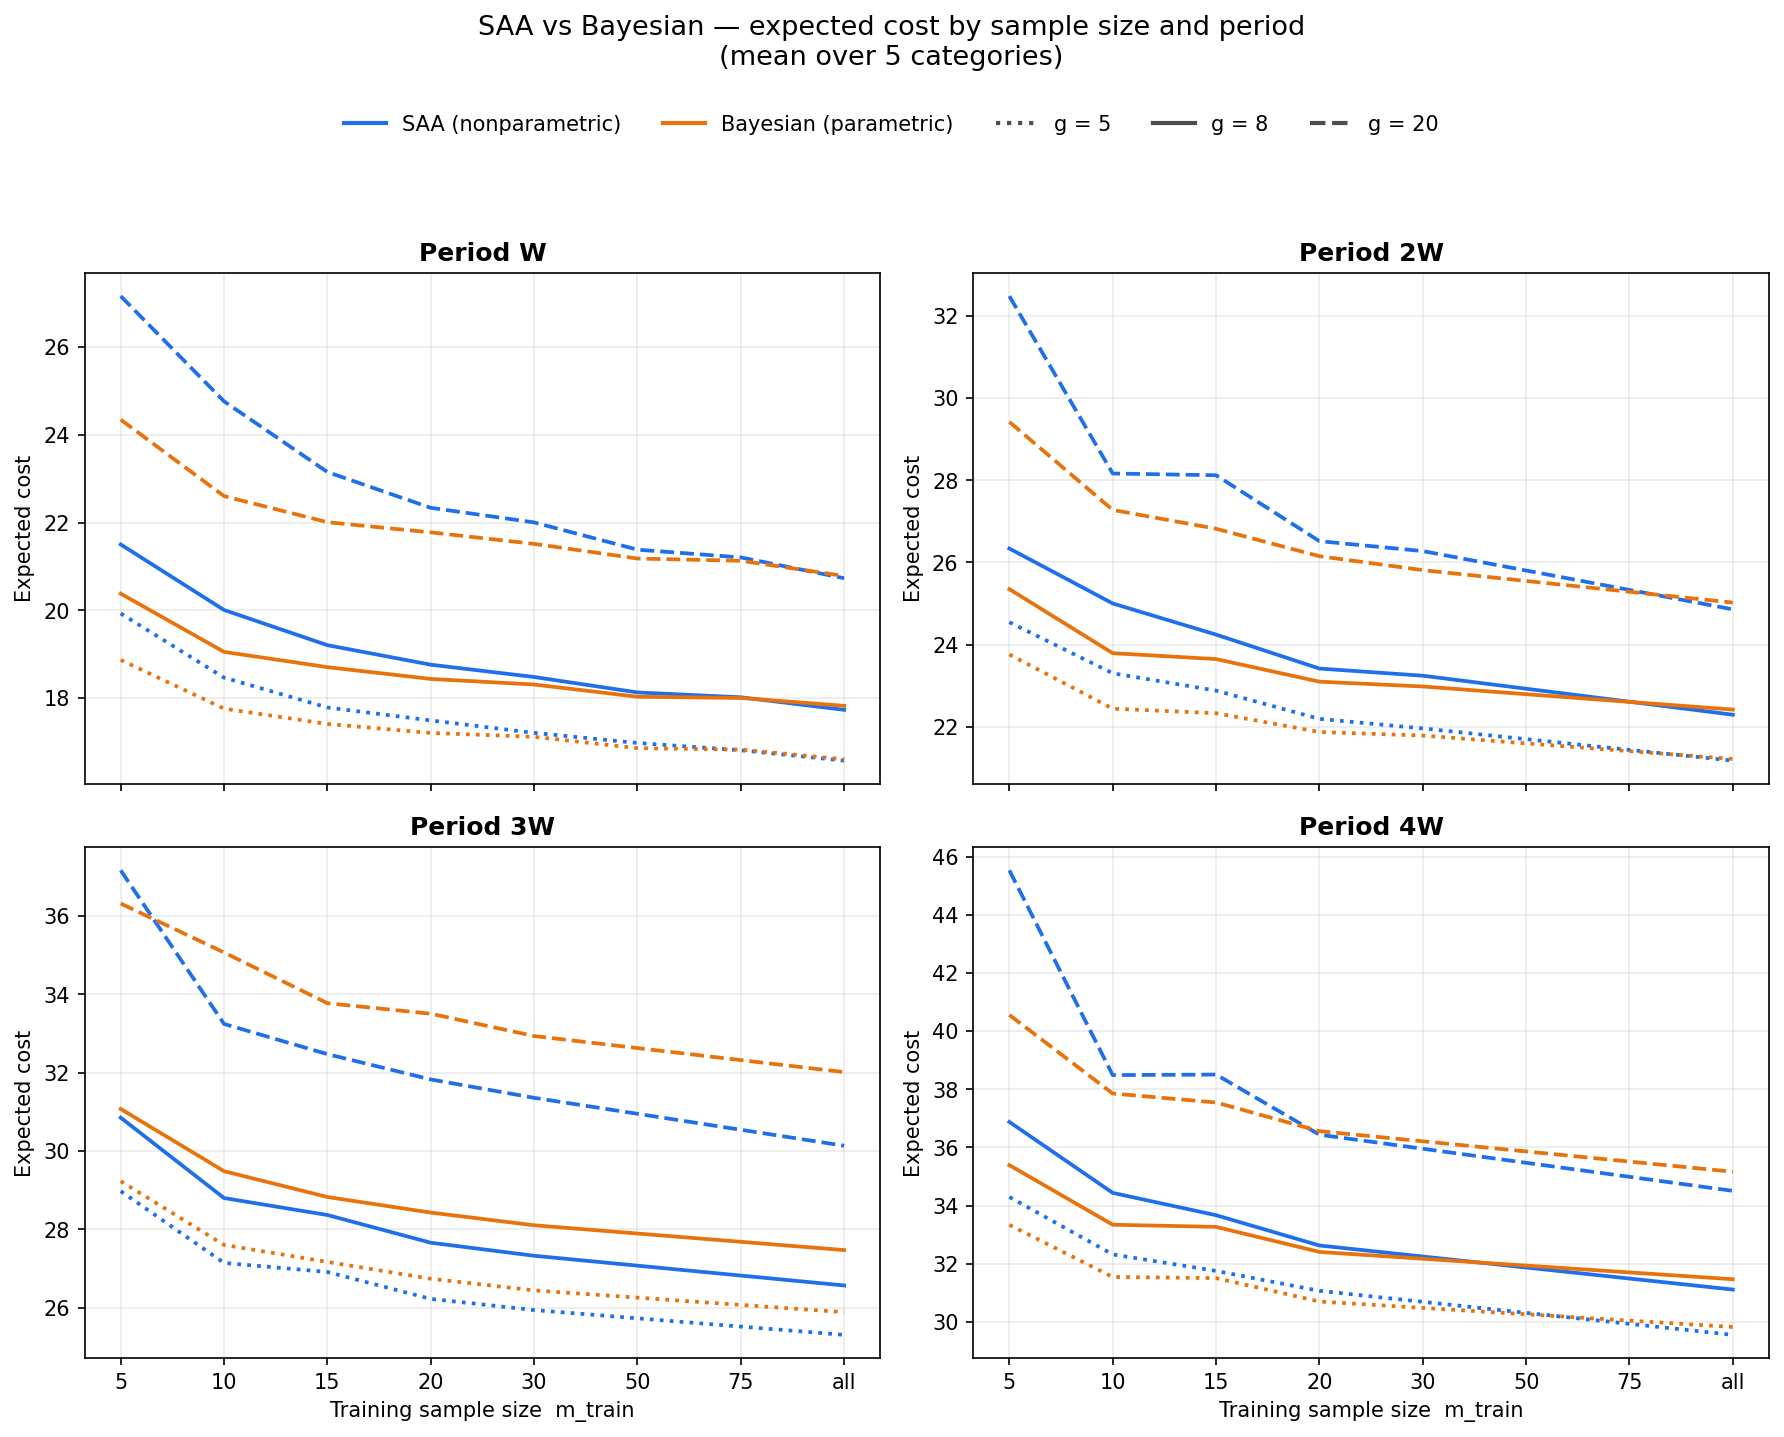
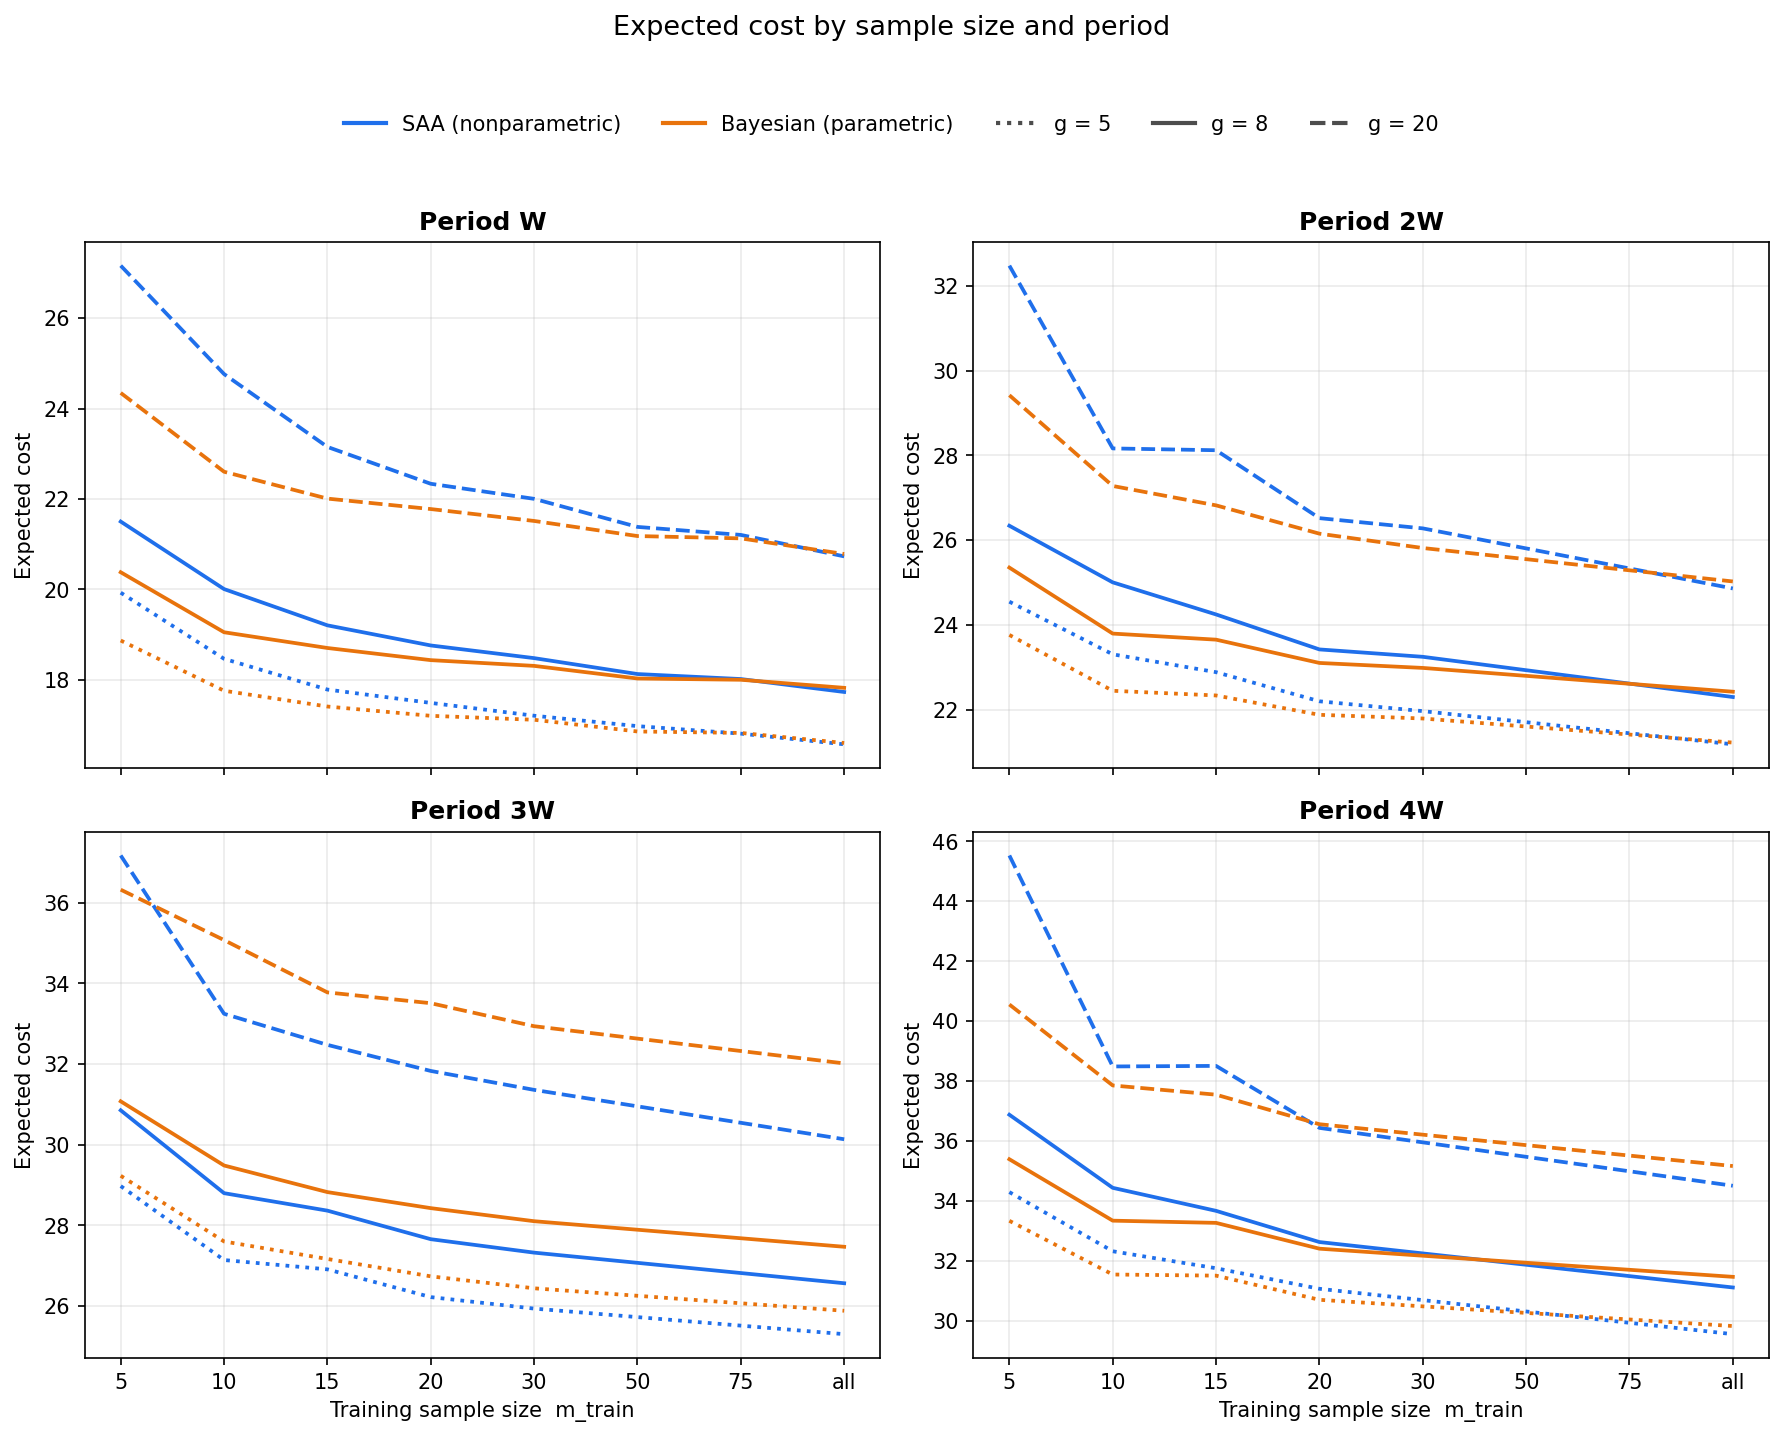
updated visualizations.

diff --git a/src/visualization.py b/src/visualization.py
@@ -58,7 +58,7 @@ def fig_crossover(df, out_path, g_values=(5.0, 8.0, 20.0)):
                 se=("regret_se", lambda x: np.sqrt(np.mean(x**2)) / np.sqrt(len(x))))
            .reset_index())
 
-    fig, axes = plt.subplots(2, 2, figsize=(12, 9), sharex=True)
+    fig, axes = plt.subplots(2, 2, figsize=(12, 9), sharex=True, sharey=True)
     axes = axes.flatten()
     for ax, period in zip(axes, PERIODS):
         sub = agg[agg.period == period]
@@ -91,8 +91,7 @@ def fig_crossover(df, out_path, g_values=(5.0, 8.0, 20.0)):
     ]
     fig.legend(handles=legend_elems, loc="upper center", ncol=5,
                frameon=False, fontsize=10, bbox_to_anchor=(0.5, 1.0))
-    fig.suptitle("SAA vs Bayesian — relative regret by sample size and period\n"
-                 "(mean over 5 categories, +/-1 s.e. band)", fontsize=13, y=1.06)
+    fig.suptitle("Relative regret by sample size and period", fontsize=13, y=1.06)
     fig.tight_layout(rect=[0, 0, 1, 0.97])
     fig.savefig(out_path, dpi=150, bbox_inches="tight"); plt.close(fig)
     print(f"Saved -> {out_path}")
@@ -192,8 +191,7 @@ def fig_sequencing(seq, out_path):
         ax.grid(True, axis="y", alpha=0.25)
     if has_method:
         axes[0].legend(frameon=False, fontsize=9, title="Method")
-    fig.suptitle("Maximum impact of intraperiod sequencing — SAA vs Bayesian\n"
-                 "(small bars in both methods -> sequencing irrelevant here)",
+    fig.suptitle("Maximum impact of intraperiod sequencing — SAA vs Bayesian",
                  fontsize=12, y=1.02)
     fig.tight_layout()
     fig.savefig(out_path, dpi=150, bbox_inches="tight"); plt.close(fig)
@@ -242,9 +240,7 @@ def fig_sequencing_levels(seq, out_path, method=None):
             pad = (vmax - vmin) * 0.5 + 0.5
             ax.set_ylim(max(0, vmin - pad), vmax + pad)
     axes[0].legend(frameon=False, fontsize=9, loc="upper right")
-    fig.suptitle(f"Sequencing cost levels — S1 / S4 / S3{mtag}\n"
-                 "(S4 near S1: empirical timing close to best-case; "
-                 "band is narrow throughout)", fontsize=12, y=1.02)
+    fig.suptitle(f"Sequencing cost levels — S1 / S4 / S3{mtag}", fontsize=12, y=1.02)
     fig.tight_layout()
     fig.savefig(out_path, dpi=150, bbox_inches="tight"); plt.close(fig)
     print(f"Saved -> {out_path}")
@@ -266,7 +262,7 @@ def plot_net_demand_distribution(N_saa, N_bay, Q_saa, Q_bay,
     ax.axvline(Q_bay, color=METHOD_COLOR["Bayesian"], ls="--", lw=2,
                label=f"$Q^*$ Bayesian = {Q_bay:.1f}")
     ax.set_xlabel("Net Demand"); ax.set_ylabel("Density")
-    ax.set_title(f"Net Demand Distribution — {title}")
+    ax.set_title(f"Net demand with $Q^*$ — {title} (representative)")
     ax.legend(); ax.grid(True, alpha=0.3)
     plt.tight_layout()
     if save_path:
@@ -302,12 +298,16 @@ def plot_cost_curves(all_cost_data: dict, save_path=None):
         ax.axvline(d["Q_bay"], color=METHOD_COLOR["Bayesian"], ls="--", lw=1.8,
                    label=f"$Q^*_{{Bay}}$={d['Q_bay']:.0f}")
         ax.scatter(d["Q_bay"], ep(d["Q_bay"]), color=METHOD_COLOR["Bayesian"], s=60, zorder=5)
+        EPmin = EP.min()
+        ax.set_ylim(EPmin * 0.92, EPmin * 3.0)
+        Qctr = 0.5 * (d["Q_saa"] + d["Q_bay"])
+        ax.set_xlim(Qctr - 12, Qctr + 12)
         ax.set_title(cat, fontsize=11, fontweight="bold")
         ax.set_xlabel("Order Quantity $Q$"); ax.set_ylabel("Expected Cost $EP(Q)$")
         ax.legend(fontsize=8, loc="upper right"); ax.grid(True, alpha=0.3, ls="--")
     for ax in axf[n:]:
         ax.set_visible(False)
-    fig.suptitle("Expected Cost Curve $EP(Q)$ — SAA vs Bayesian optima (full data, W)",
+    fig.suptitle("Expected cost $EP(Q)$ — SAA vs Bayesian optima (full data, W)",
                  fontsize=13, fontweight="bold", y=1.01)
     plt.tight_layout()
     if save_path:
@@ -316,7 +316,7 @@ def plot_cost_curves(all_cost_data: dict, save_path=None):
 
 
 # ════════════════════════════════════════════════════════════════════
-def _build_fulldata_fits(period="W", rule="S4", J=400, seed=0):
+def _build_fulldata_fits(period="W", rule="S4", J=200, seed=0):
     """Helper: full-data SAA & Bayesian fits per category for figs 3-4."""
     from data_analysis import order_items_clean, returns_clean
     from preprocessing import build_category_datasets
@@ -382,9 +382,8 @@ def fig_posterior_shrinkage(out_path, category=None, period="W",
     pname = {"r": "return probability  r", "k": "resalability  k"}[param]
     ax.set_xlabel(f"Posterior of {pname}")
     ax.set_ylabel("Posterior density")
-    ax.set_title(f"Posterior shrinkage with sample size — {pname}\n"
-                 f"({category}, {period}; wider at small m, "
-                 f"narrowing toward the data value as m grows)", fontsize=11)
+    ax.set_title(f"Posterior shrinkage — {pname}\n"
+                 f"({category}, {period}; representative)", fontsize=11)
     ax.legend(frameon=False, title="Training size")
     ax.grid(True, alpha=0.25)
     fig.tight_layout()
@@ -434,9 +433,7 @@ def fig_demand_overdispersion(out_path, period="W", J=20000, seed=0):
     ax.set_xlim(0, lim); ax.set_ylim(0, lim)
     ax.set_xlabel("VMR of observed demand (data)")
     ax.set_ylabel("VMR of NegBin-Beta posterior predictive")
-    ax.set_title("Demand model captures overdispersion\n"
-                 "(points on y=x: NegBin reproduces the observed spread; "
-                 "a Poisson model would sit on the dotted line)", fontsize=11)
+    ax.set_title("Demand model captures overdispersion", fontsize=11)
     ax.legend(frameon=False, loc="upper left")
     ax.grid(True, alpha=0.25)
     fig.tight_layout()
@@ -454,14 +451,12 @@ if __name__ == "__main__":
     fig_metric_vs_samplesize(
         df, OUT / "fig_cost_vs_samplesize.png",
         value_col="cost_mean", se_col=None, ylabel="Expected cost",
-        suptitle="SAA vs Bayesian — expected cost by sample size and period\n"
-                 "(mean over 5 categories)")
+        suptitle="Expected cost by sample size and period")
     if "Q_mean" in df.columns:
         fig_metric_vs_samplesize(
             df, OUT / "fig_Q_vs_samplesize.png",
             value_col="Q_mean", se_col="Q_se", ylabel="Order quantity  $Q^*$",
-            suptitle="SAA vs Bayesian — order quantity $Q^*$ by sample size and period\n"
-                     "(mean over 5 categories, +/-1 s.e. band)")
+            suptitle="Order quantity $Q^*$ by sample size and period")
     seq = pd.read_csv(OUT / "sequencing_importance.csv")
     fig_sequencing(seq, OUT / "fig_sequencing.png")
     if "method" in seq.columns:
